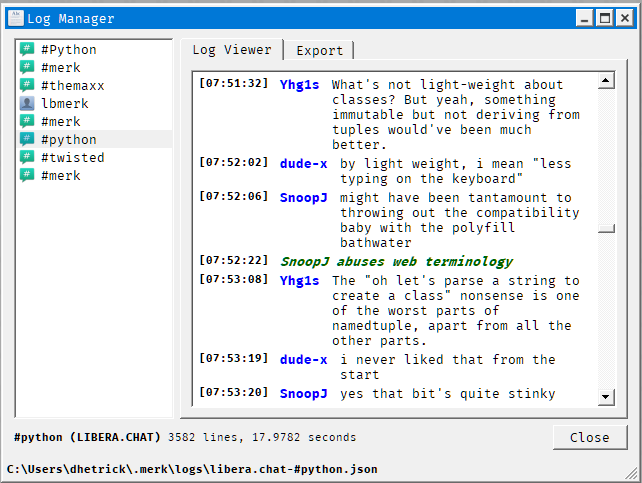
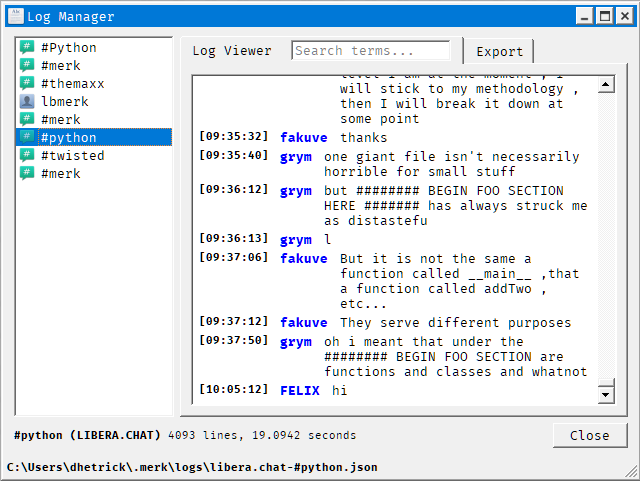
Updated screenshots and README

diff --git a/README.md b/README.md
@@ -159,7 +159,7 @@ There are three libraries that comes bundled with **MERK**:
 
 <p align="center">
  <center><a href="./graphics/log_manager_screenshot.png"><img src="./graphics/log_manager_screenshot_small.png"></a></center></br>
-  <center><i><small>The log manager, where you can view, export, and manage MERK logs. Logs can be exported to JSON or a custom delimited text format.</small></i></center>
+  <center><i><small>The log manager, where you can search, view, export, and manage MERK logs. Logs can be exported to JSON or a custom delimited text format.</small></i></center>
   </p>
 
 # Usage
